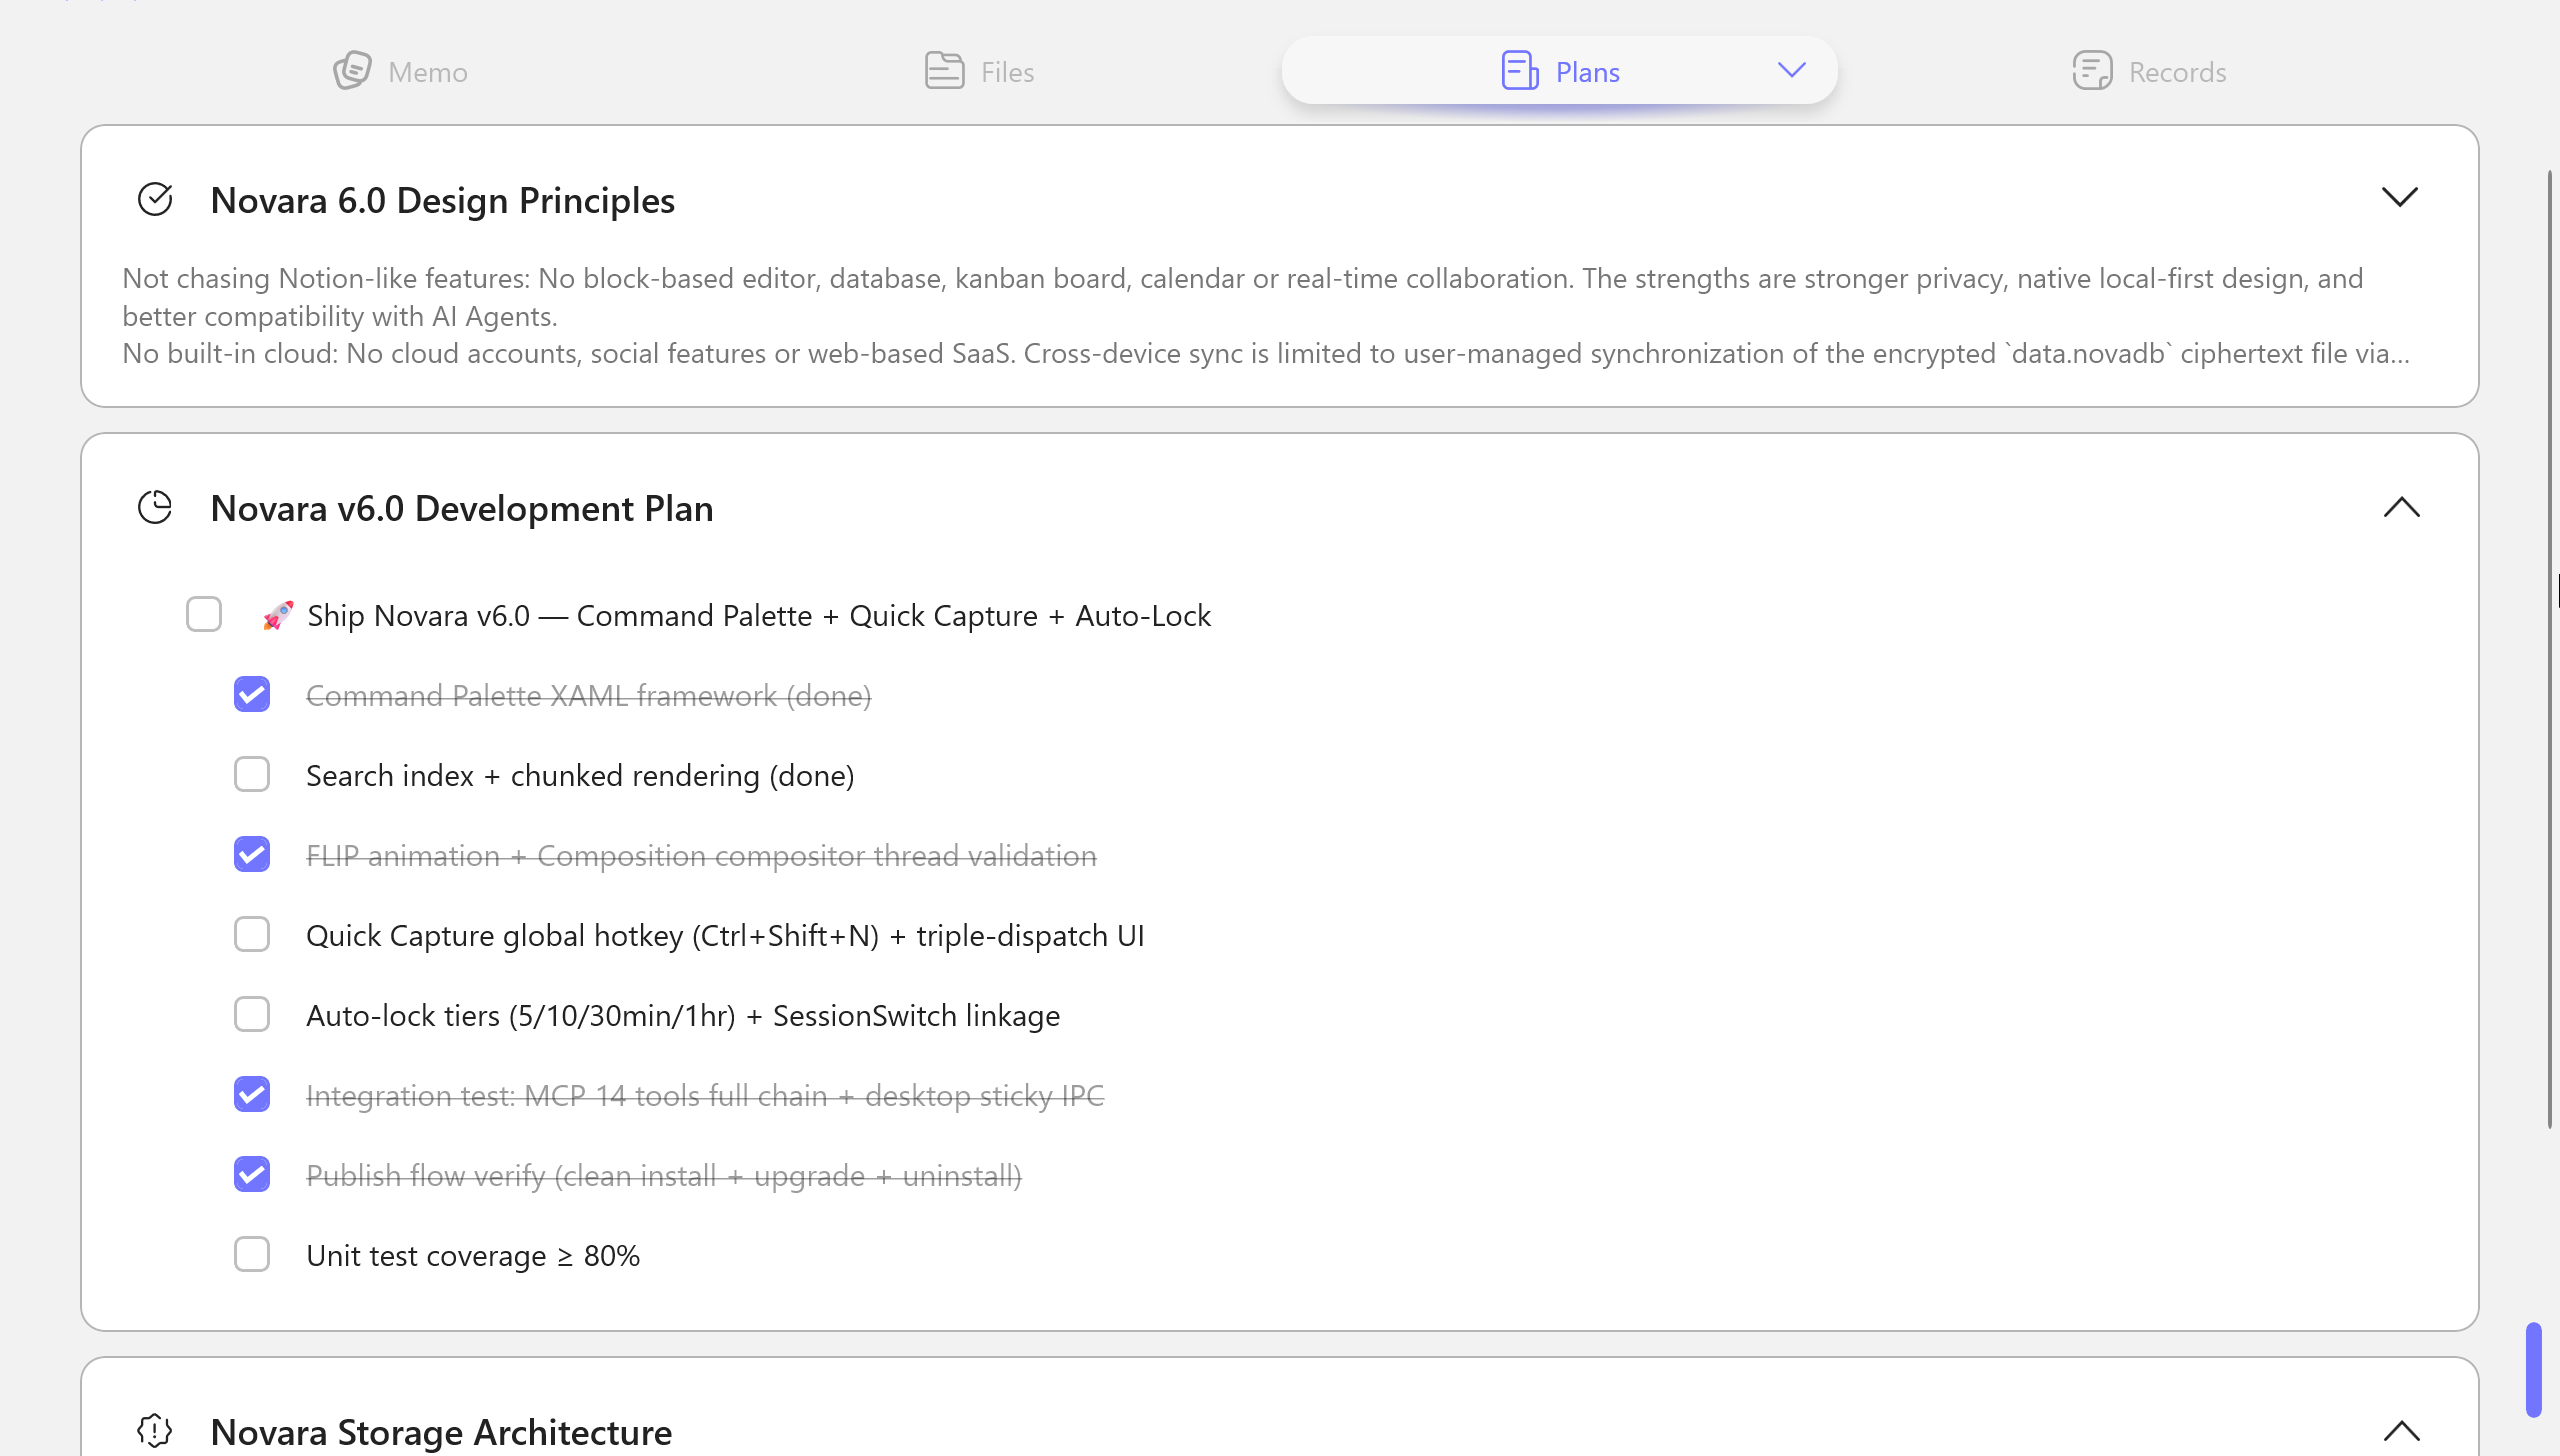
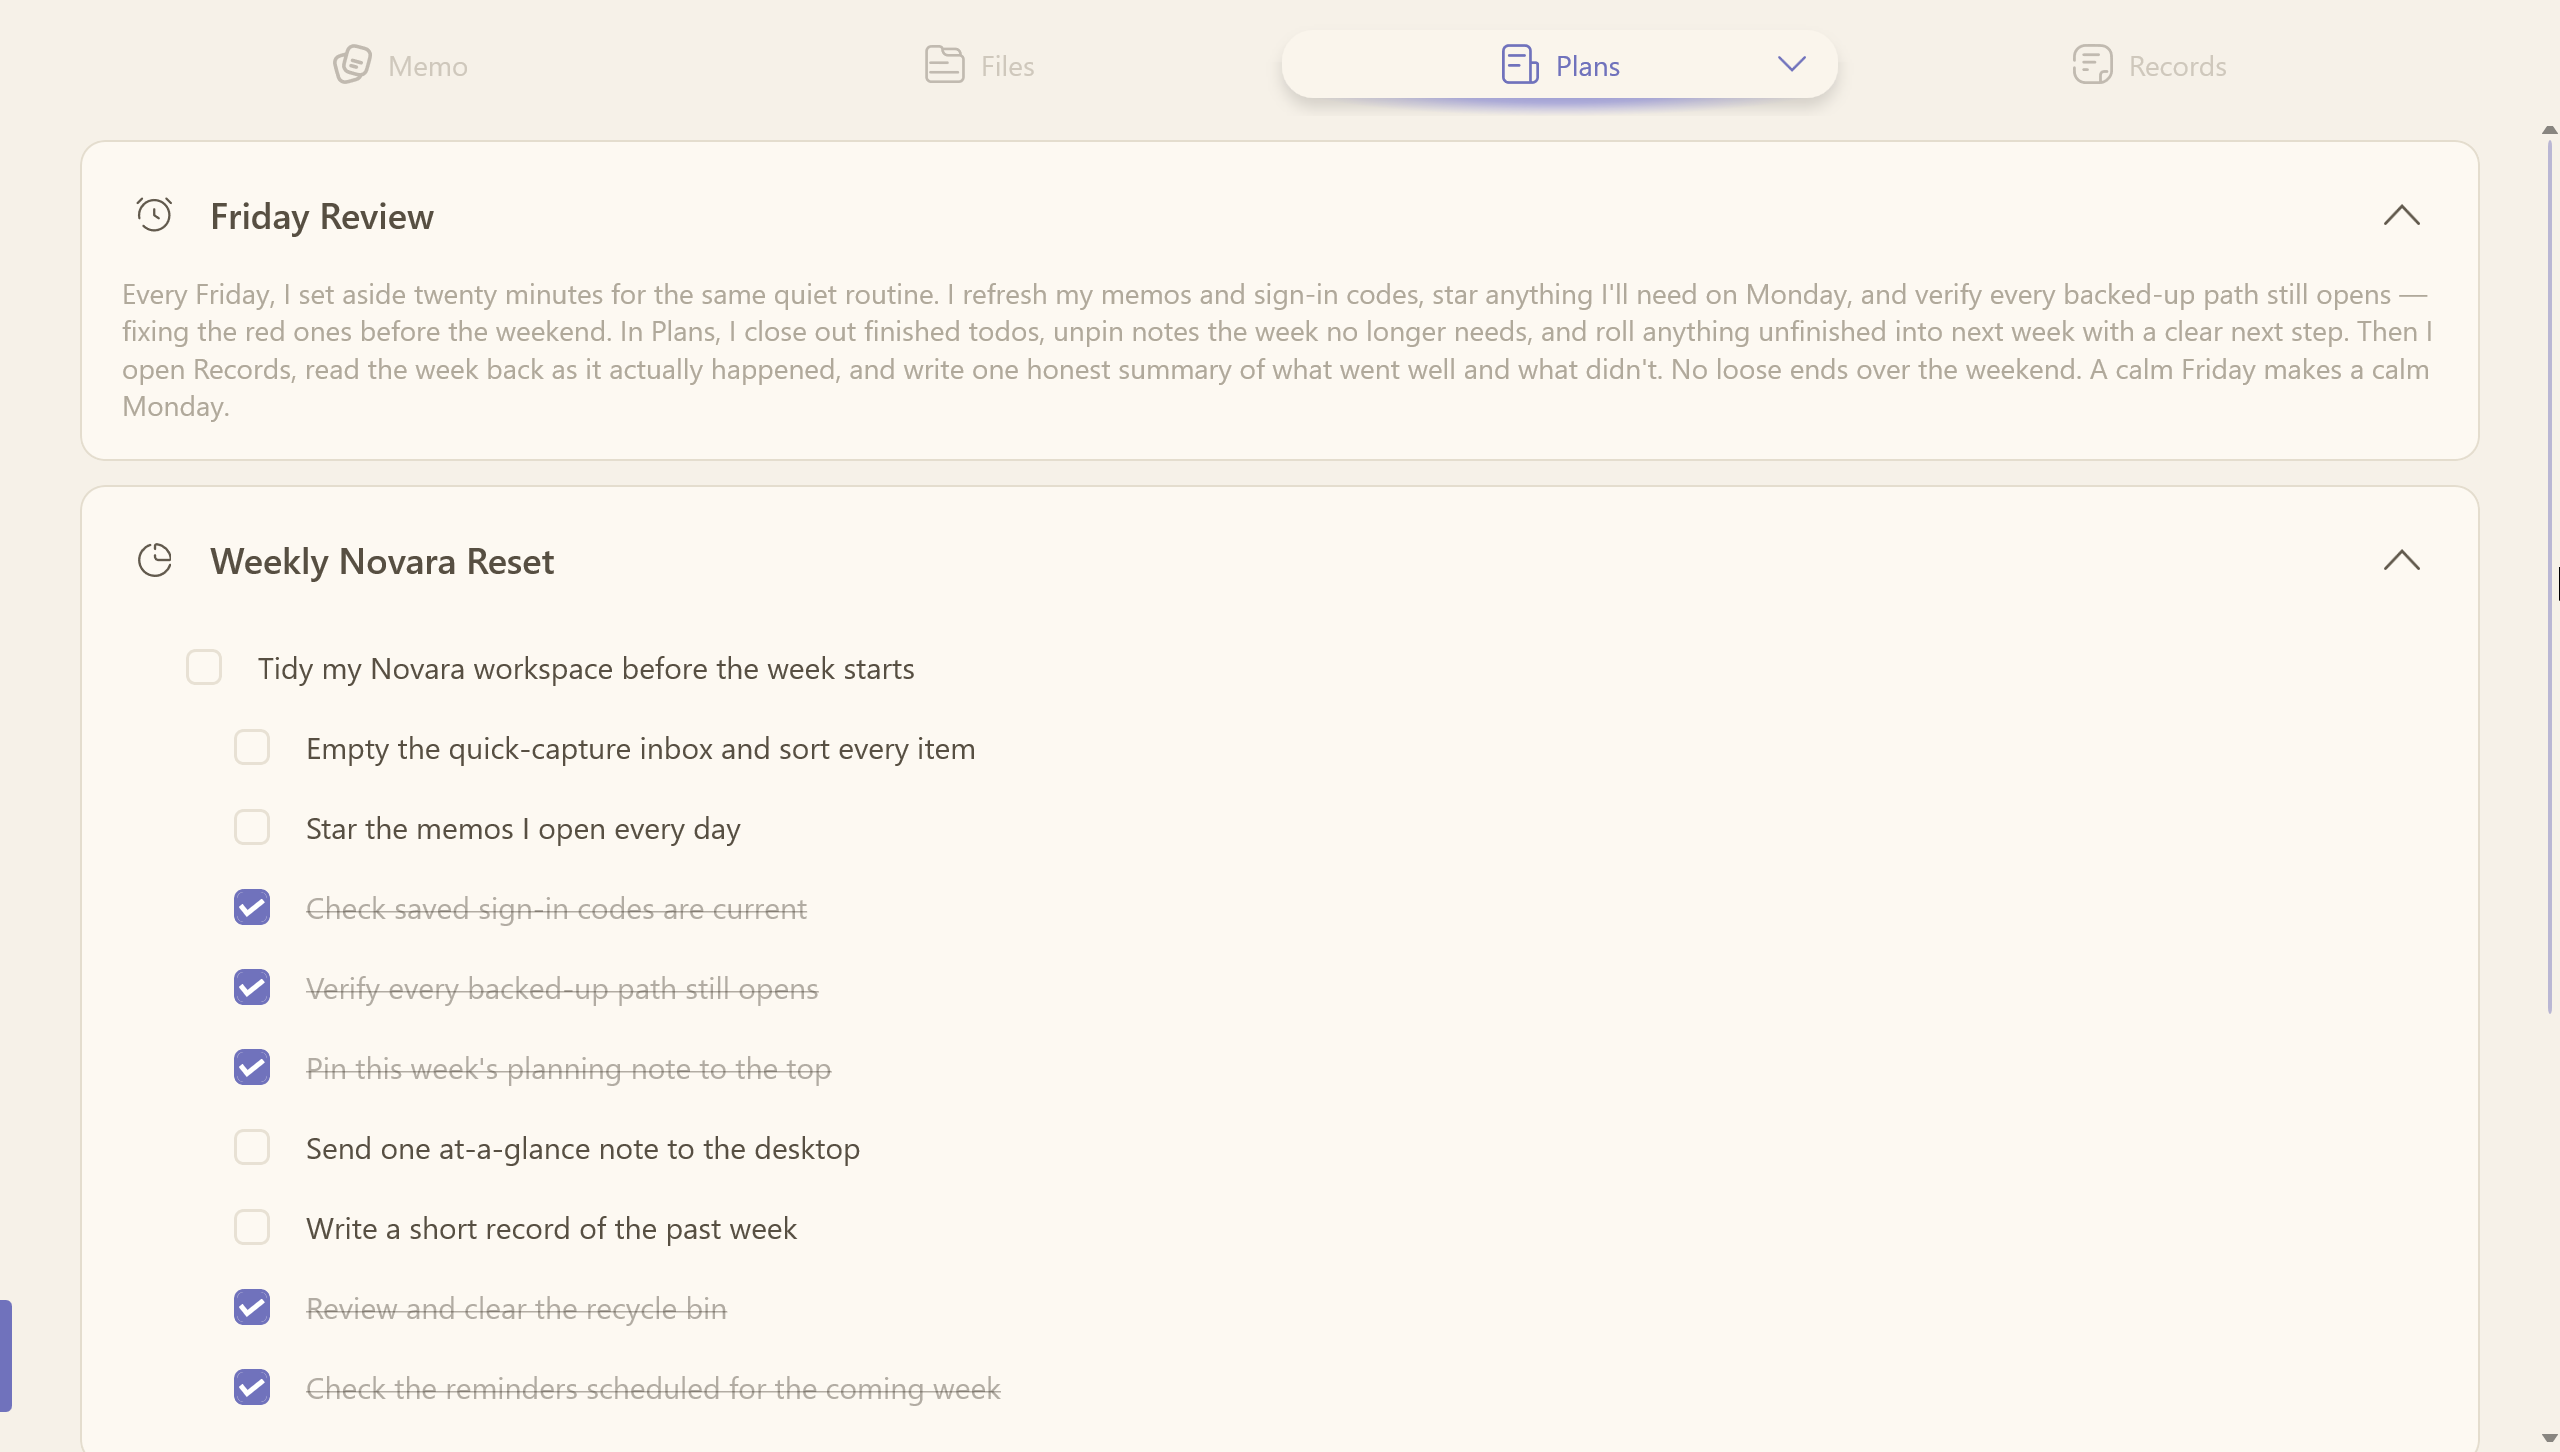
docs(readme): 9.x 全新截图替换——39 张新图入库、16 张旧图删除；双语图廊重排：新增设置页/工具页/数据概览/MD 源码模式/命令面板/类纸四款/深浅主题图，DesktopCard/HtmlEditor/RecycleBin/Search/Snapshot 中性化或改名，弃 LockPage/DarkTheme-WelcomePage

diff --git a/README.md b/README.md
@@ -1,4 +1,4 @@
-<h1 align="center">Novara</h1>
+<h1 align="center">Novara</h1>
 
 <p align="center"><strong>English</strong> · <a href="README.zh-CN.md">简体中文</a></p>
 
@@ -32,6 +32,11 @@ Today that layer takes the shape of memos (with built-in API-key connectivity te
 - **Verify what you run** — each release ships `SHA256SUMS` for the installer, `IMAGES.txt` for the image, and an SBOM; see [docs/VERIFYING.md](docs/VERIFYING.md).
 - **And on the desktop** — export any diary or the whole memo collection as an image, four paper themes with new installs starting on Almond, an app-wide animation toggle, an in-app update checker, and a rebuilt sticky-note card with its own palette.
 
+<p align="center">
+  <img src="images/English-Settings.png" alt="Settings page" width="420" />
+  <img src="images/English-Tools.png" alt="Tools page" width="420" />
+</p>
+
 ## 8.0 — Sync, on a Server You Own
 
 8.0 is where the connected era turns two-way. Novara now **synchronizes across your devices** through a server you run yourself — and that server still never sees your data: it holds versioned ciphertext blobs and knows nothing about their contents. Pairing a second device takes three values (server URL, space id, enrollment secret), and the space key is generated on your first device and never leaves your control. Your PC stays the authority — lose the server and one push from your PC rebuilds it. Offline never degrades: a dead server changes nothing about how Novara works.
@@ -52,7 +57,6 @@ Security is reinforced by a **30-minute lockout after 5 consecutive failed attem
 
 <p align="center">
   <img src="images/English-UnlockPage.png" alt="Privacy lock screen" width="420" />
-  <img src="images/English-LockPage.png" alt="30-minute lockout countdown" width="420" />
 </p>
 
 ## Memo Manager
@@ -127,7 +131,7 @@ Send any note or todo card to your desktop with one click. A dedicated lightweig
 - **Bidirectional todo sync** — checking a todo on the desktop writes back to the main app, which stays the single source of truth
 
 <p align="center">
-  <img src="images/English-DesktopCard.png" alt="Desktop sticky note" width="560" />
+  <img src="images/DesktopCard.png" alt="Desktop sticky note" width="560" />
 </p>
 
 ## Records
@@ -145,8 +149,9 @@ A filter bar (mixed / diary / documents) and per-card format badges keep everyth
 </p>
 
 <p align="center">
-  <img src="images/English-HtmlEditor.png" alt="Rich text HTML editor" width="420" />
+  <img src="images/HtmlEditor.png" alt="Rich text HTML editor" width="420" />
   <img src="images/English-MdEditor-PreviewMode.png" alt="Markdown editor preview" width="420" />
+  <img src="images/English-MdEditor-SourceMode.png" alt="Markdown editor source mode" width="420" />
 </p>
 
 ## Novara Snapshot
@@ -162,10 +167,11 @@ The first step of the connected era. Export your entire database — memos, path
 Host it for yourself, or send the file to someone you trust — file and password travel separately.
 
 <p align="center">
-  <img src="images/English-PC-Snapshot.png" alt="Snapshot viewer on desktop" width="720" />
+  <img src="images/Snapshot-PC.png" alt="Snapshot viewer on desktop" width="720" />
 </p>
 <p align="center">
-  <img src="images/English-Mobile%20-%20Snapshot.png" alt="Snapshot viewer on mobile" width="300" />
+  <img src="images/Snapshot-MB.png" alt="Snapshot viewer on mobile" width="300" />
+  <img src="images/Snapshot-UnlockPage-PC.png" alt="Snapshot unlock page on desktop" width="420" />
 </p>
 
 ## Cross-Device Sync
@@ -191,7 +197,8 @@ Press **Ctrl+K** anywhere to search memos, paths, todos, notes, and records in o
 Ctrl+K doubles as a **command palette**: type `>` and the same box runs commands — create a memo / todo / note / diary, open the recycle bin or settings, lock the vault now.
 
 <p align="center">
-  <img src="images/English-GlobalSearch.png" alt="Global search" width="720" />
+  <img src="images/Search%20Page.png" alt="Global search" width="720" />
+  <img src="images/English-Search%20Page-Command%20Tools.png" alt="Command palette tools" width="720" />
 </p>
 
 ## Recycle Bin
@@ -199,7 +206,7 @@ Ctrl+K doubles as a **command palette**: type `>` and the same box runs commands
 Deleted cards are never lost instantly — they move to a **Recycle Bin** with a **7-day auto-purge**, recoverable for a week before permanent removal on the next startup. Supports restore, permanent delete (red double-confirmation), clear all, and a mixed chronological list. Recycled data is excluded from exports.
 
 <p align="center">
-  <img src="images/English-RecycleBin.png" alt="Recycle bin" width="720" />
+  <img src="images/RecycleBin.png" alt="Recycle bin" width="720" />
 </p>
 
 ## MCP Agent Interface
@@ -230,10 +237,19 @@ Novara ships with **five complete interface languages** — 简体中文, 繁體
 
 ## Theme System
 
-Light, Dark, and Follow System themes with a unified brand-button system (primary blue / ghost outline / destructive red) consistent across every dialog.
+Light, Dark, and Follow System themes with a unified brand-button system (primary blue / ghost outline / destructive red) consistent across every dialog. Since 9.0, four paper palettes — Cream, Almond, Kraft, and Newsprint — recolor the entire app, editors and desktop sticky notes included, and new installs start on Almond.
 
 <p align="center">
-  <img src="images/English-DarkTheme-WelcomePage.png" alt="Dark theme" width="720" />
+  <img src="images/Light%20Mode.png" alt="Light theme" width="420" />
+  <img src="images/Dark%20Mode.png" alt="Dark theme" width="420" />
+</p>
+<p align="center">
+  <img src="images/Paper・Cream.png" alt="Paper theme - Cream" width="420" />
+  <img src="images/Paper・Almond.png" alt="Paper theme - Almond" width="420" />
+</p>
+<p align="center">
+  <img src="images/Paper・Kraft.png" alt="Paper theme - Kraft" width="420" />
+  <img src="images/Paper・Newsprint.png" alt="Paper theme - Newsprint" width="420" />
 </p>
 
 ## Data Import & Export
@@ -273,6 +289,10 @@ Your data moves with you, freely and without vendor lock-in:
 - **Health check**: encryption status, latest backup, snapshot count, file integrity, and orphan references at a glance
 - **Recoverable deletes**: the recycle bin gives you a week before anything is truly gone
 - **Agent-ready without data leaks**: the MCP interface never sends your data anywhere by itself
+
+<p align="center">
+  <img src="images/English-Data%20Overview.png" alt="Data overview" width="720" />
+</p>
 
 ## Privacy & Security
 
